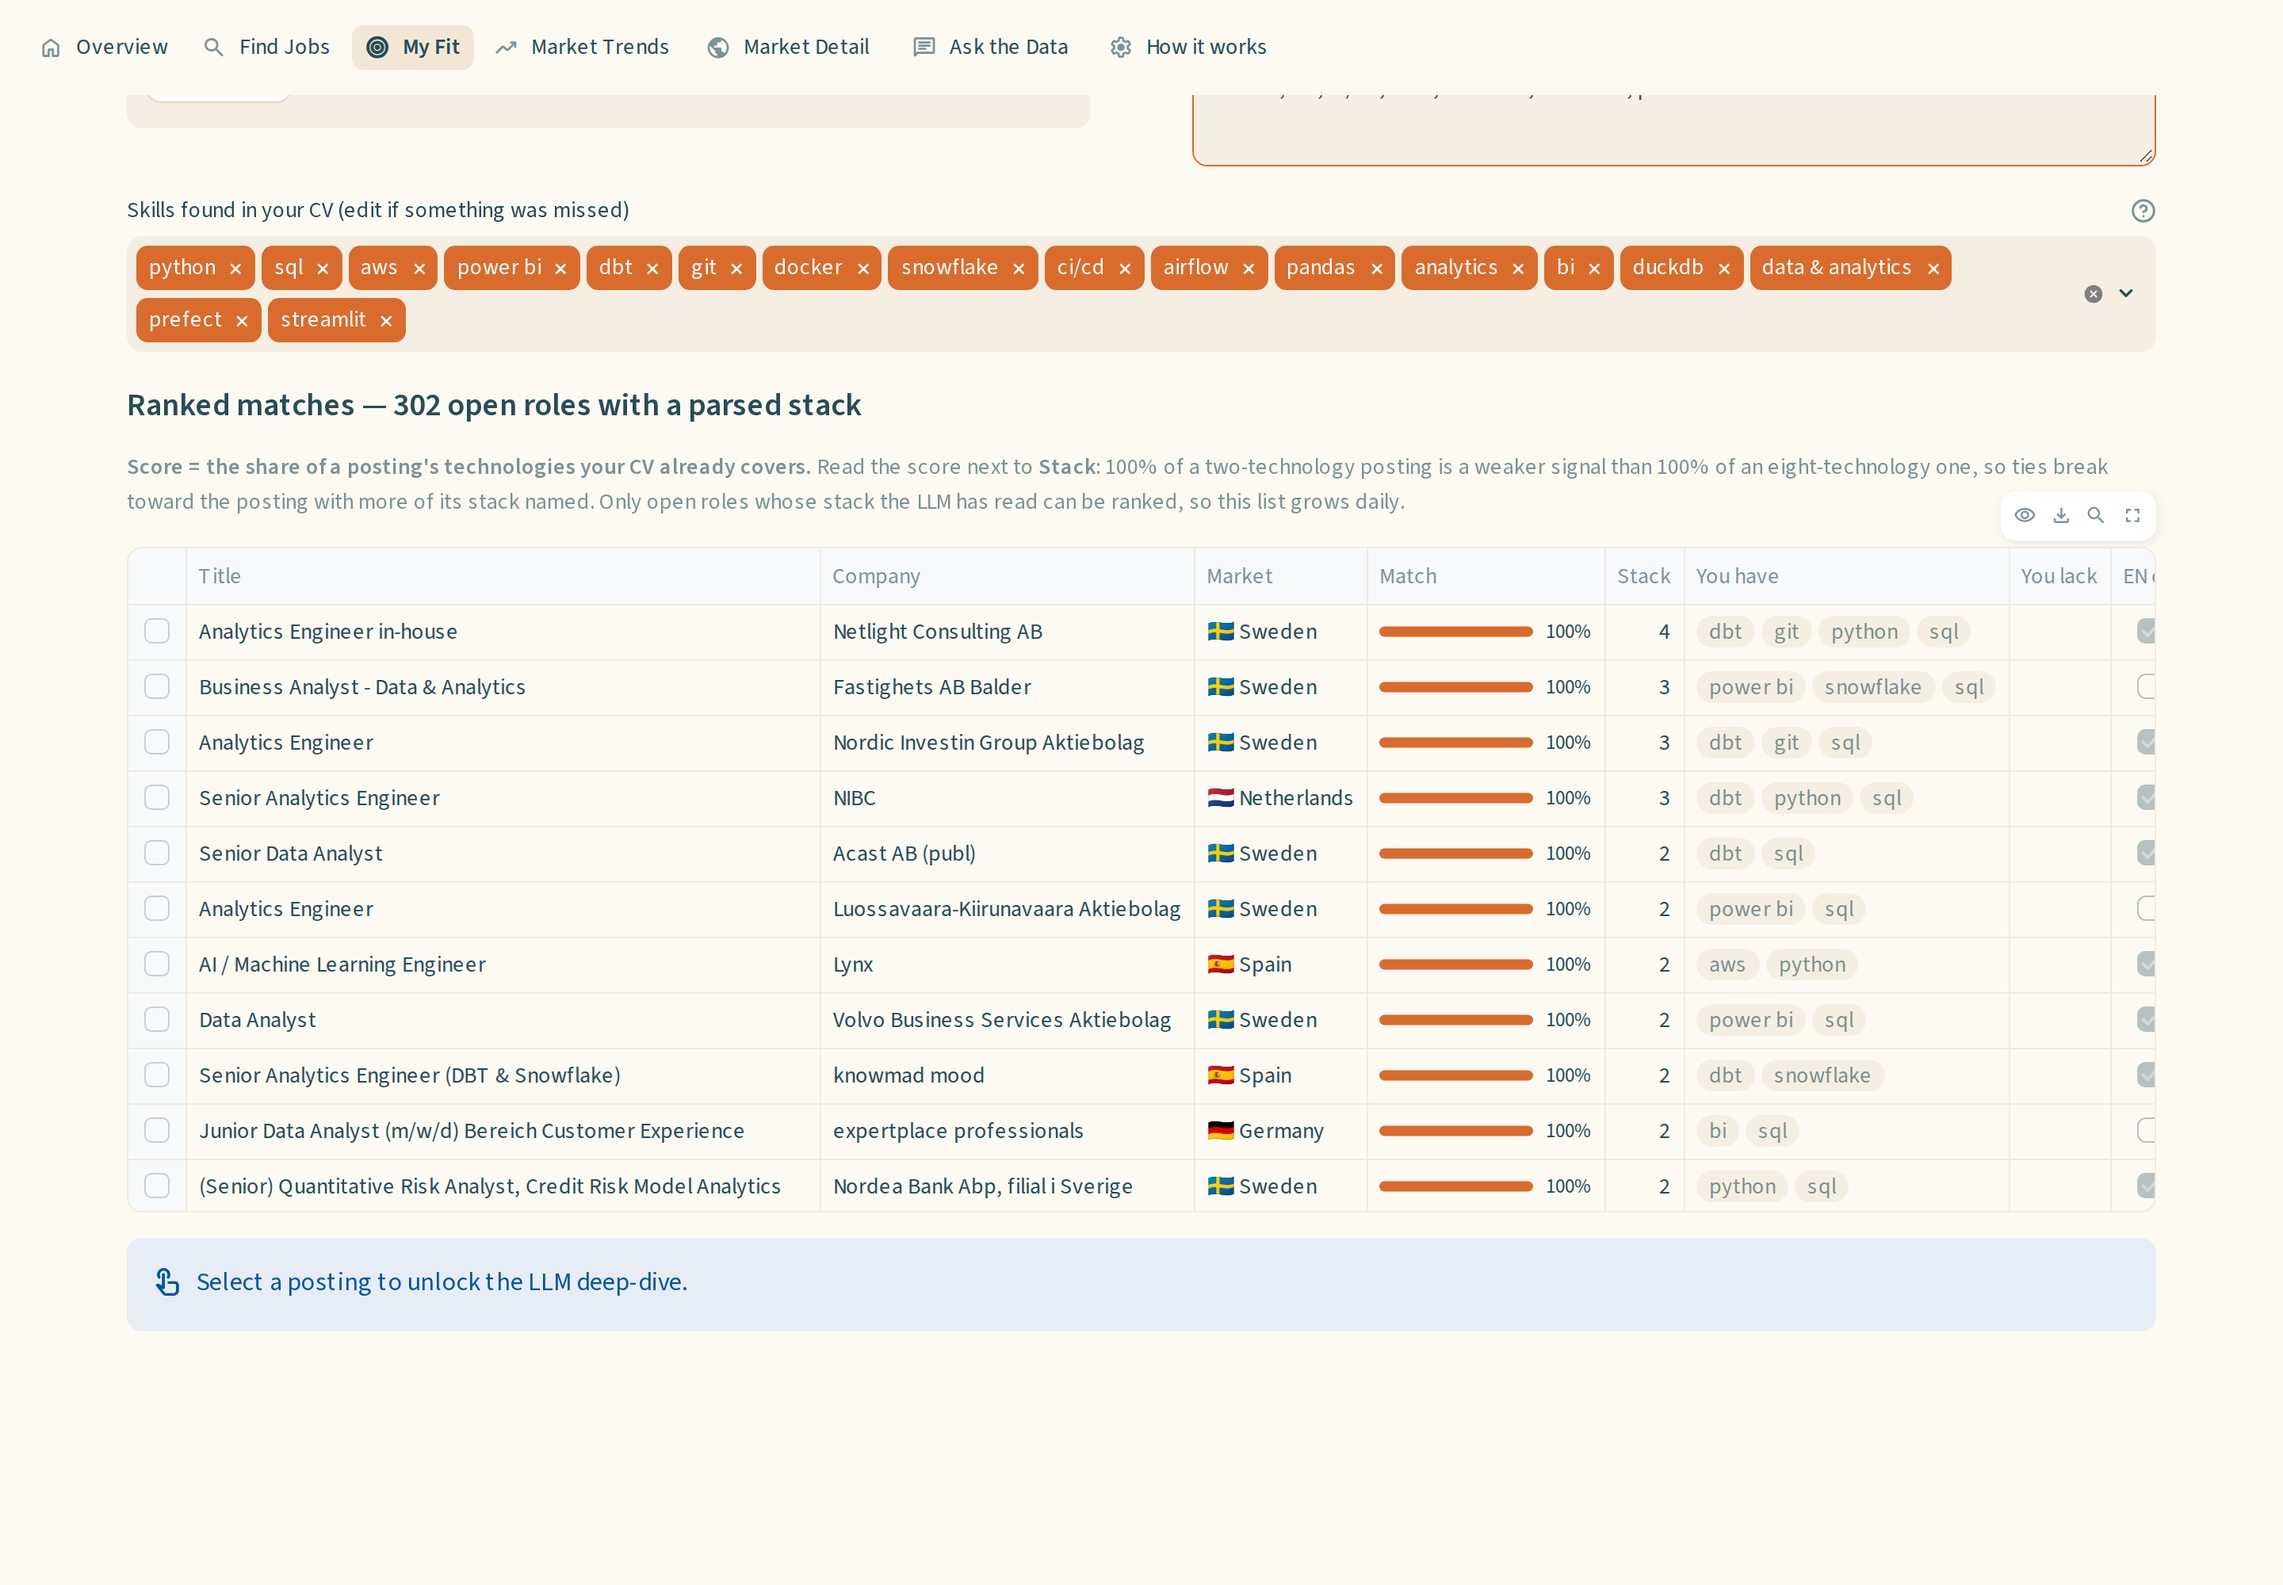
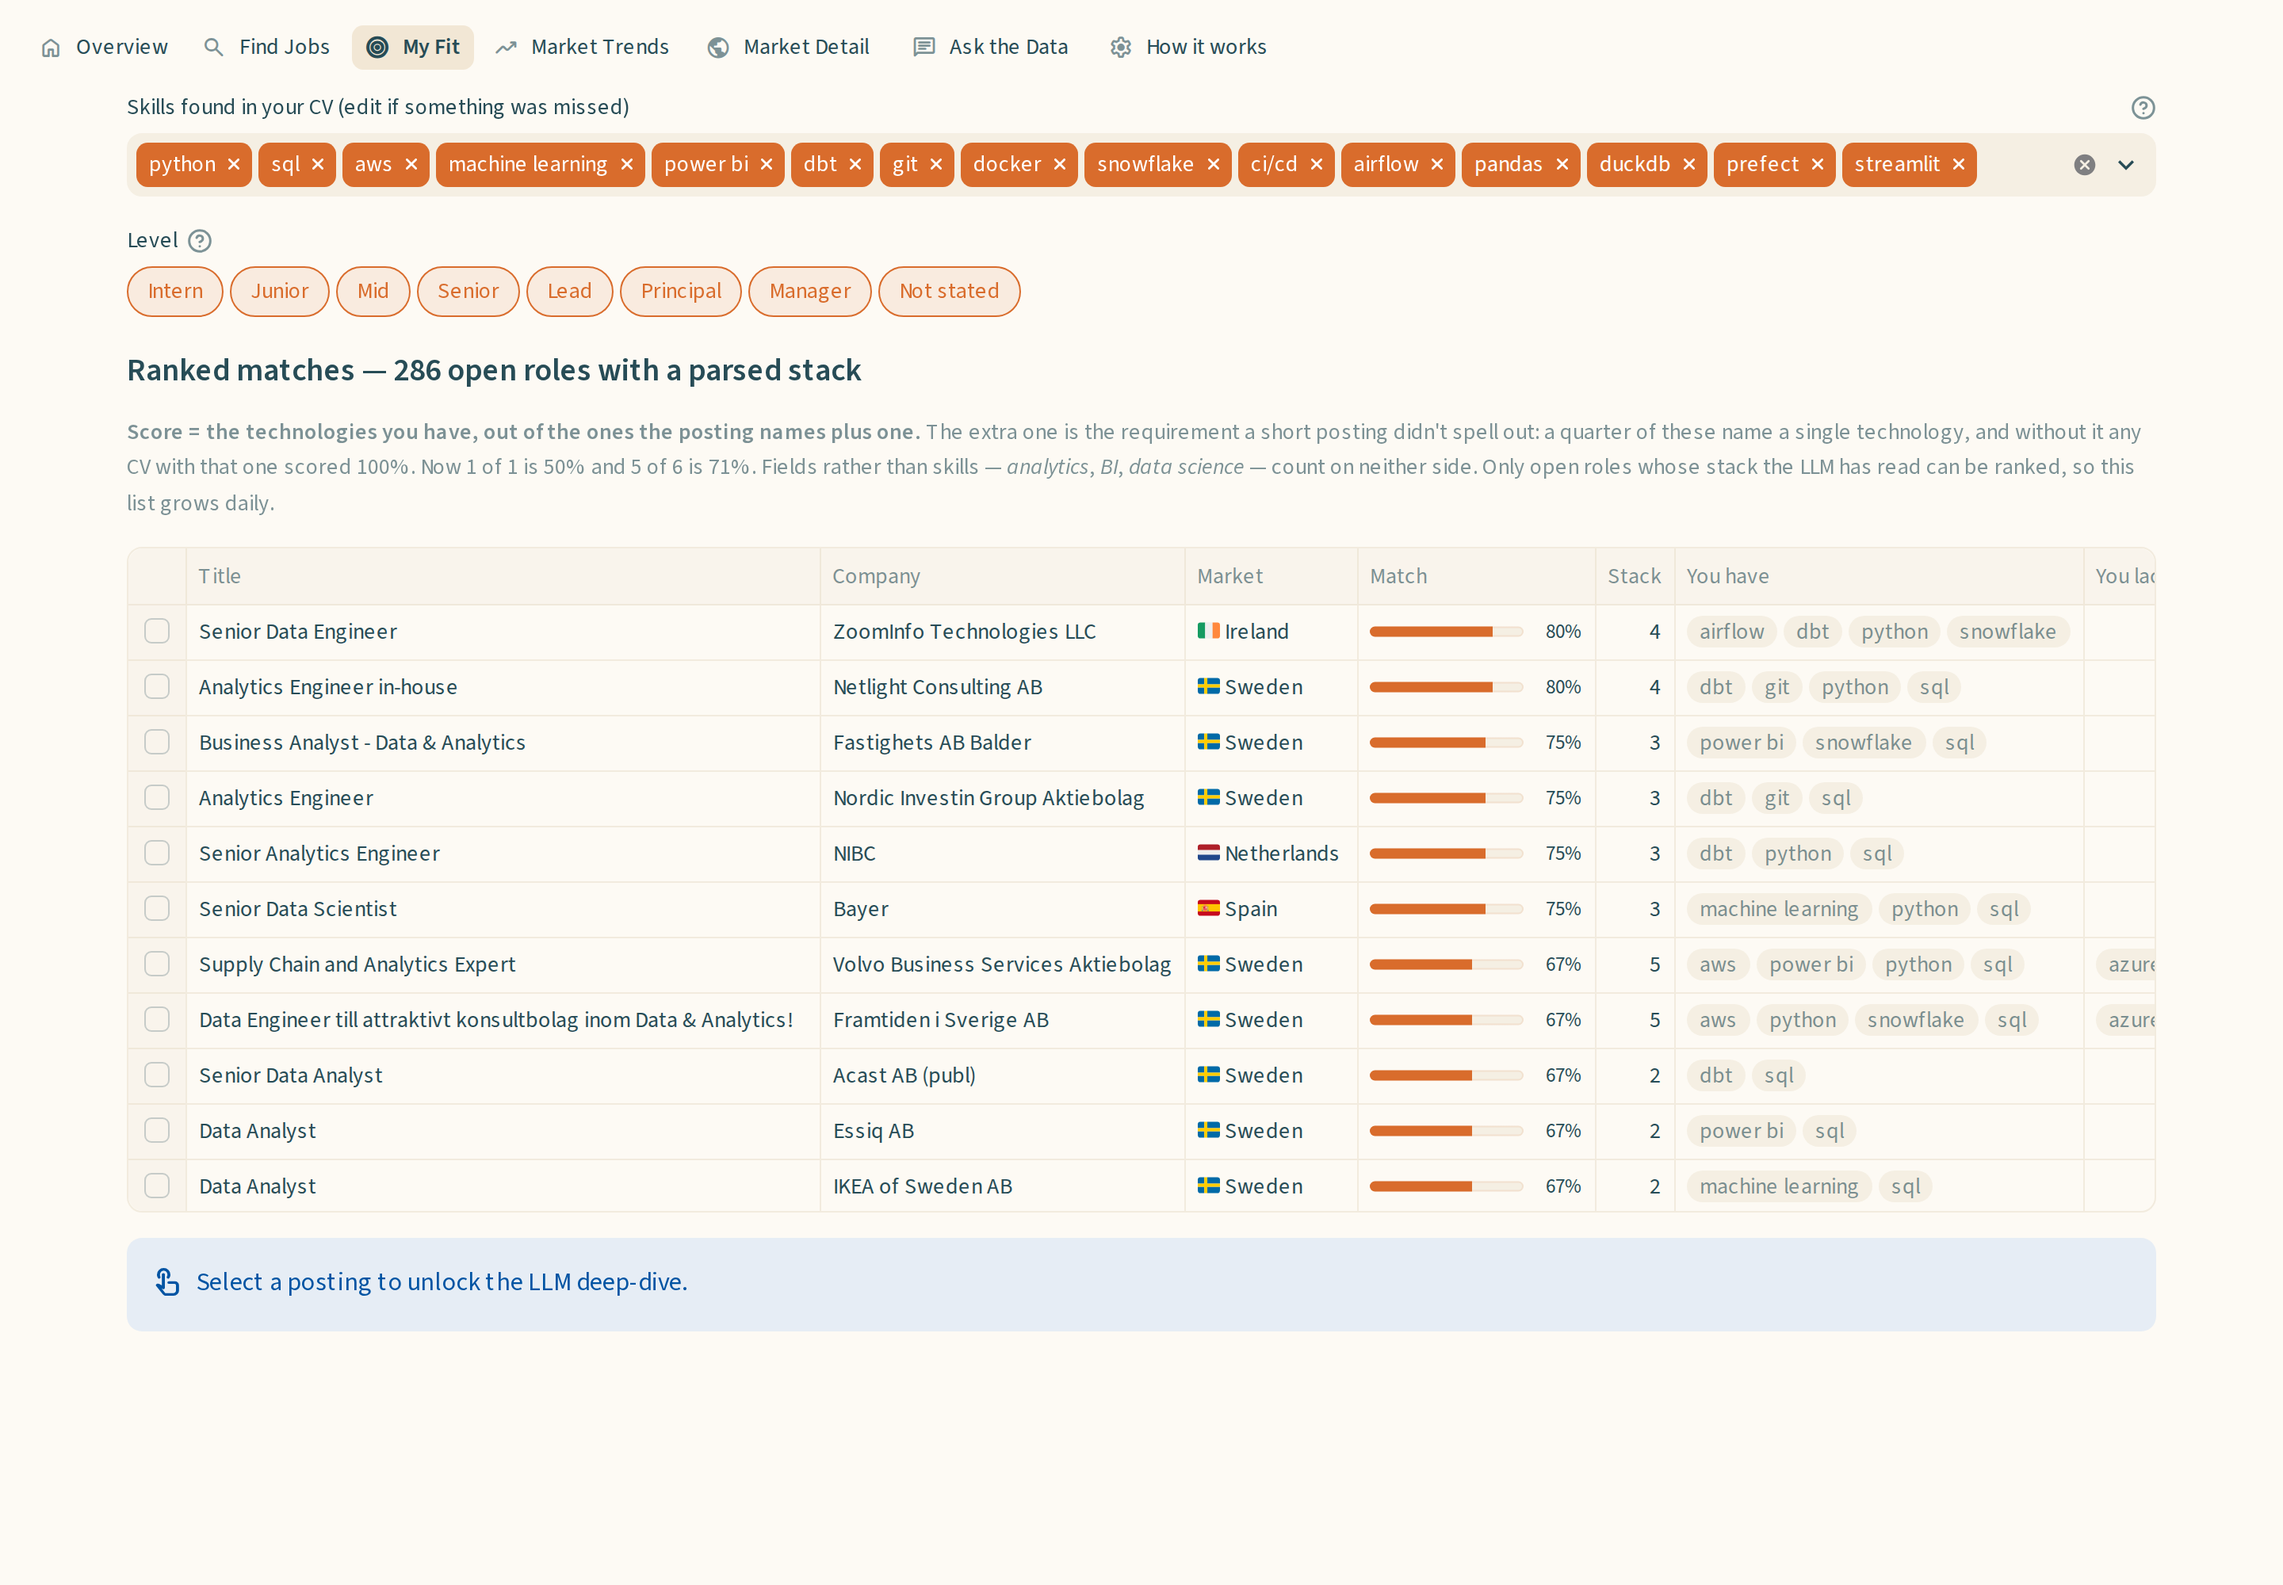
docs(readme): My Fit's evidence-weighted score, and a fresh screenshot
The README still described the score as the share of a posting's stack you
cover; it is now matched / (named + 1), with generic terms out on both sides
and a Level filter. The screenshot showed the old chips (analytics, BI) and
100% one-technology matches; recaptured from the live app.

diff --git a/README.md b/README.md
@@ -33,7 +33,7 @@ Gemini free tier, free job APIs, GitHub Actions as the scheduler — see
 
 ![Find Jobs: the filter row, a grid showing each posting's extracted stack, and the open posting card](docs/img/find-jobs.png)
 
-**My Fit** — your CV against every open role, free and instant: the share of each posting's stack you already cover, what you have, what you lack.
+**My Fit** — your CV against every open role, free and instant: how much of each posting's stack you already cover, discounted when the posting names little, with what you have and what you lack.
 
 ![My Fit: detected skills as chips, then every open role ranked by stack overlap with matched and missing technologies](docs/img/my-fit.png)
 
@@ -145,7 +145,14 @@ spend nothing where determinism suffices, spend the LLM where it earns its cost.
 
 1. **Free and instant** — the CV is intersected with the technology vocabulary
    the LLM *already* extracted from postings, and every enriched posting is
-   ranked by the share of its stack you cover. No API call, whole corpus.
+   ranked by `technologies you have / (technologies it names + 1)`. No API
+   call, whole corpus. The +1 is the requirement a short posting didn't spell
+   out: a quarter of the scorable postings name a single technology (Adzuna
+   returns a snippet), and without it any CV with that one scored 100%, above a
+   5-of-6 match. Now 1 of 1 is 50% and 5 of 6 is 71% — a score is trusted only
+   as far as its evidence goes. Fields rather than skills (*analytics*, *BI*,
+   *data science*) count on neither side, and a Level filter narrows the list
+   to the seniority you are after.
 2. **One call, on demand** — the posting you select plus the CV go to the
    provider for a match percentage, honest gaps, and concrete CV edits.
 

diff --git a/docs/architecture.md b/docs/architecture.md
@@ -28,7 +28,7 @@
             │
             ▼
  Streamlit app (app/streamlit_app), top nav, entry point Home.py
-   Overview · Find Jobs · My Fit (CV stack overlap) · Market Trends ·
+   Overview · Find Jobs · My Fit (CV stack overlap, evidence-weighted) · Market Trends ·
    Market Detail (one market, incl. the NL sponsor register) ·
    Ask the Data (text-to-SQL agent) · How It Works
             │
